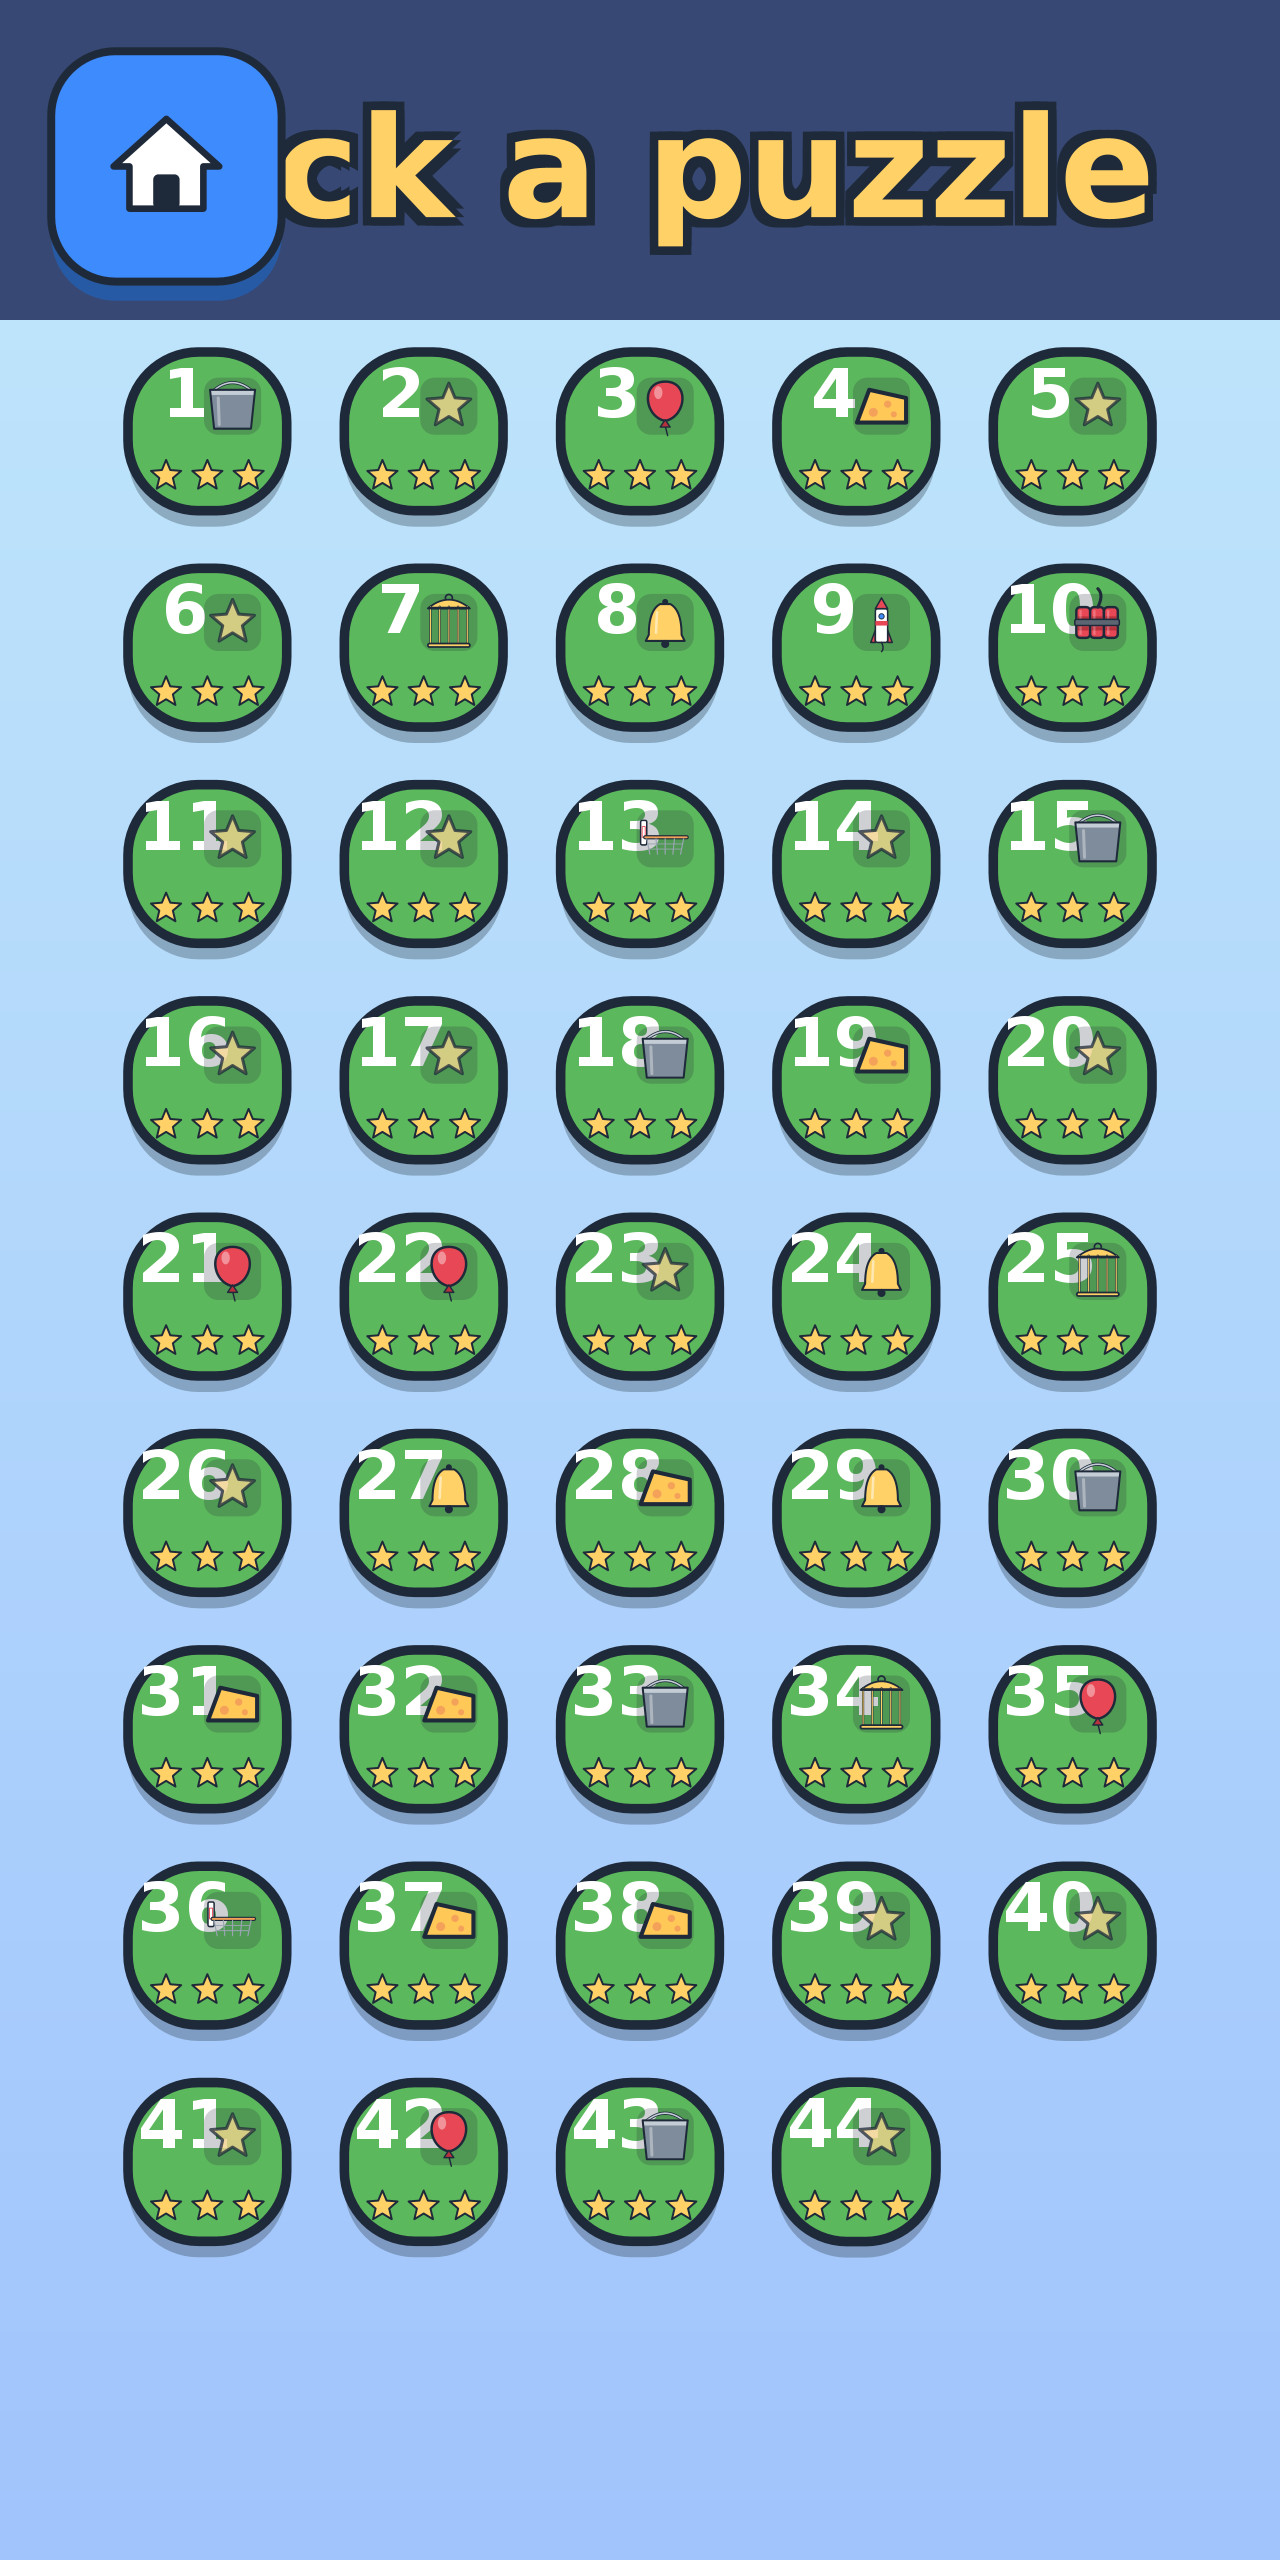
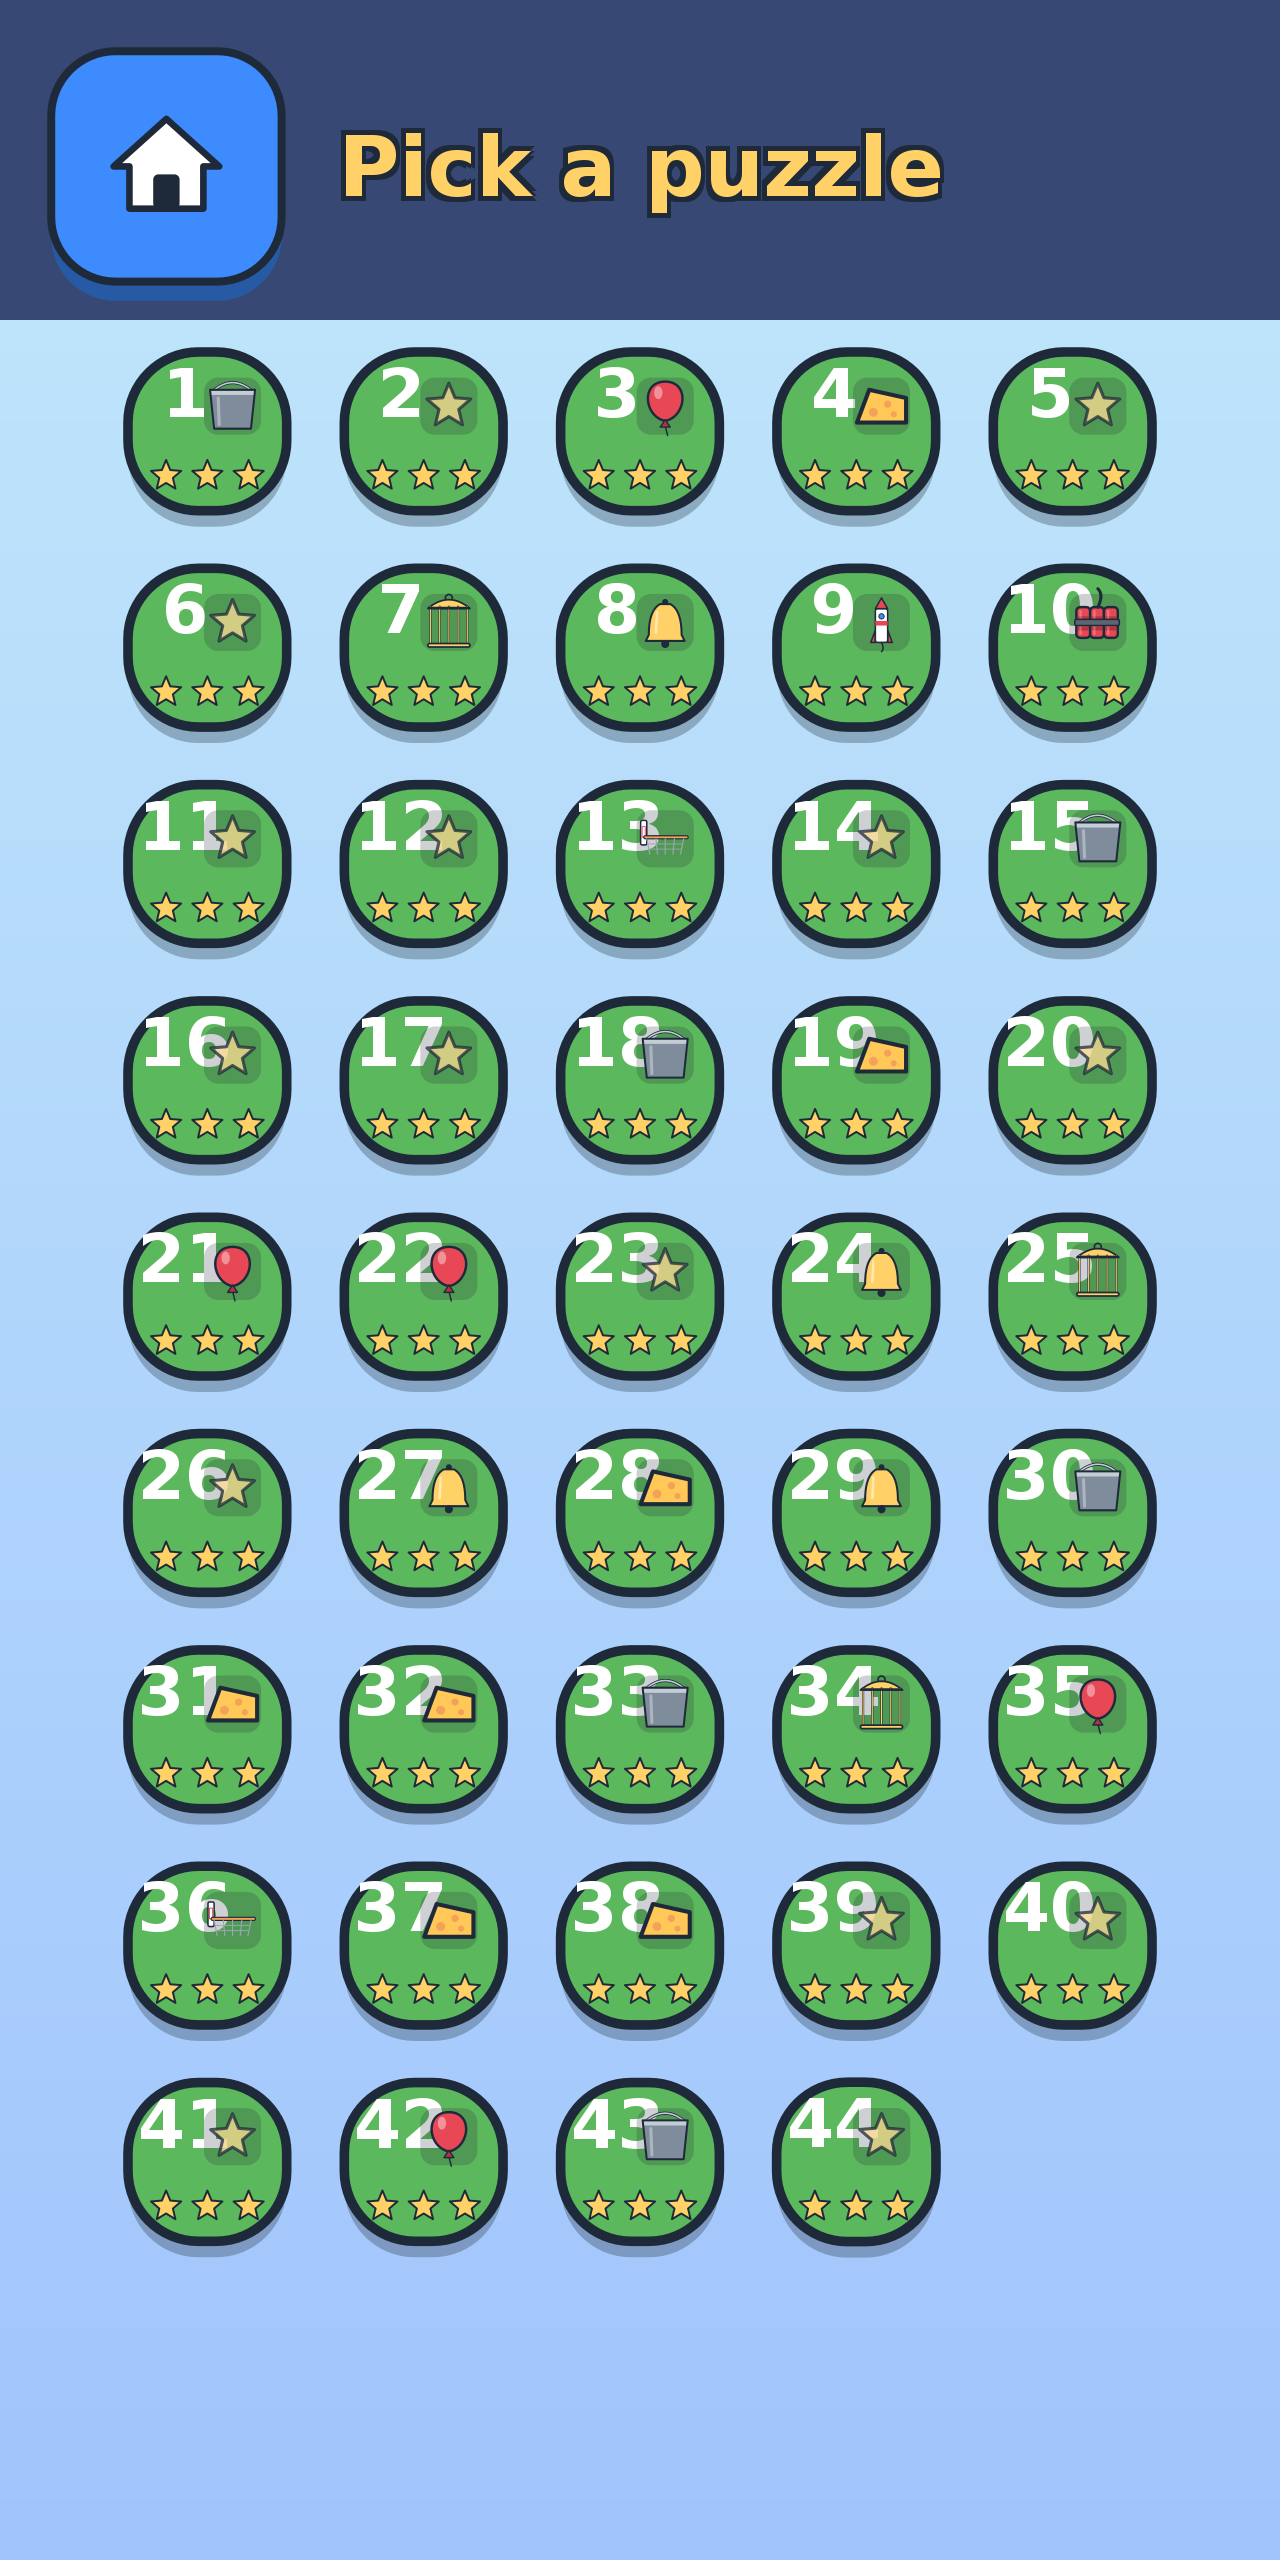
Level list title keeps clear of the home button on tall screens
Claude-Session: https://claude.ai/code/session_0133jmrFkrMrKiXgt4xVsPB1

Changed region(s): [[0.2188, 0.0312, 0.9062, 0.125]]

diff --git a/core/src/main/kotlin/tim/core/ui/LevelSelectScreen.kt b/core/src/main/kotlin/tim/core/ui/LevelSelectScreen.kt
@@ -89,7 +89,10 @@ class LevelSelectScreen(game: Game) : Screen(game) {
         }
         // header
         p.fillRect(0.0, 0.0, game.width, 100 * u, Colors.withAlpha(Style.NAVY, 0.92))
-        p.bigText("Pick a puzzle", game.width / 2, 52 * u, 44 * u, Style.YELLOW)
+        // keep the title clear of the home button on tall, narrow screens
+        var ts = 44 * u
+        while (ts > 22 * u && p.textWidth("Pick a puzzle", ts) > game.width - 2 * 104 * u) ts -= 2 * u
+        p.bigText("Pick a puzzle", game.width / 2, 52 * u, ts, Style.YELLOW)
         homeButton.draw(p, u, game.clock)
     }
 
